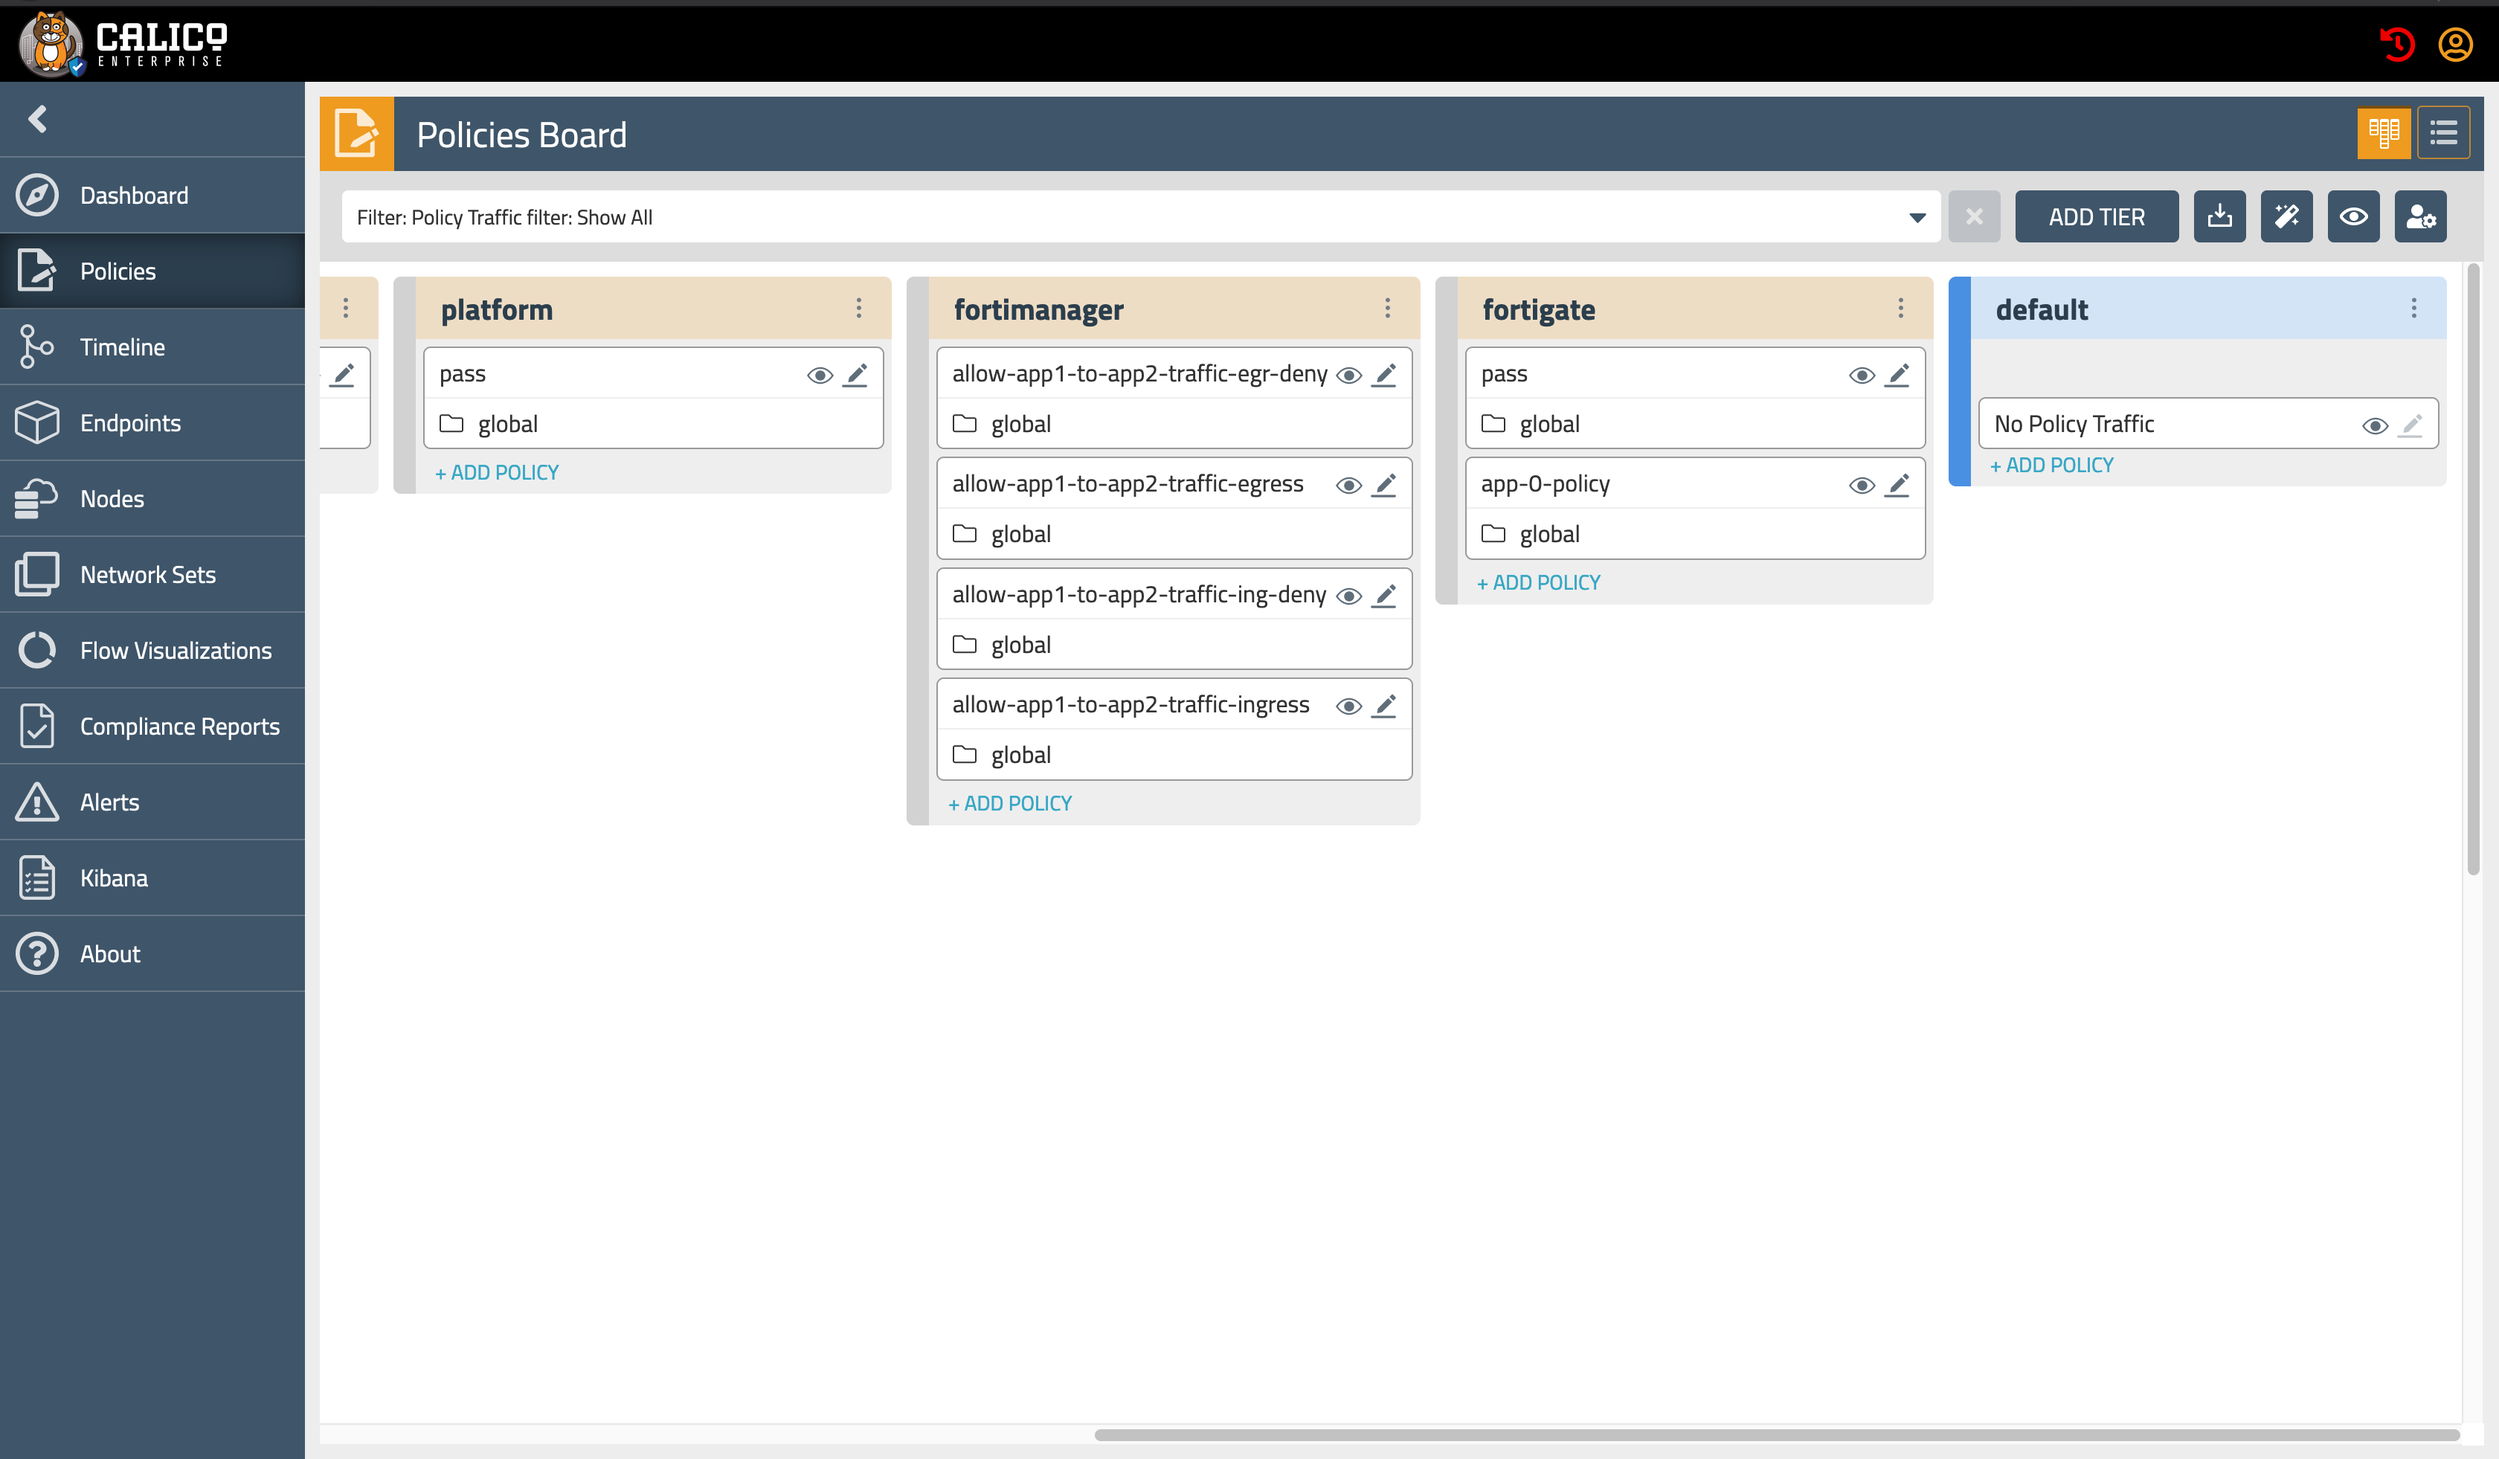
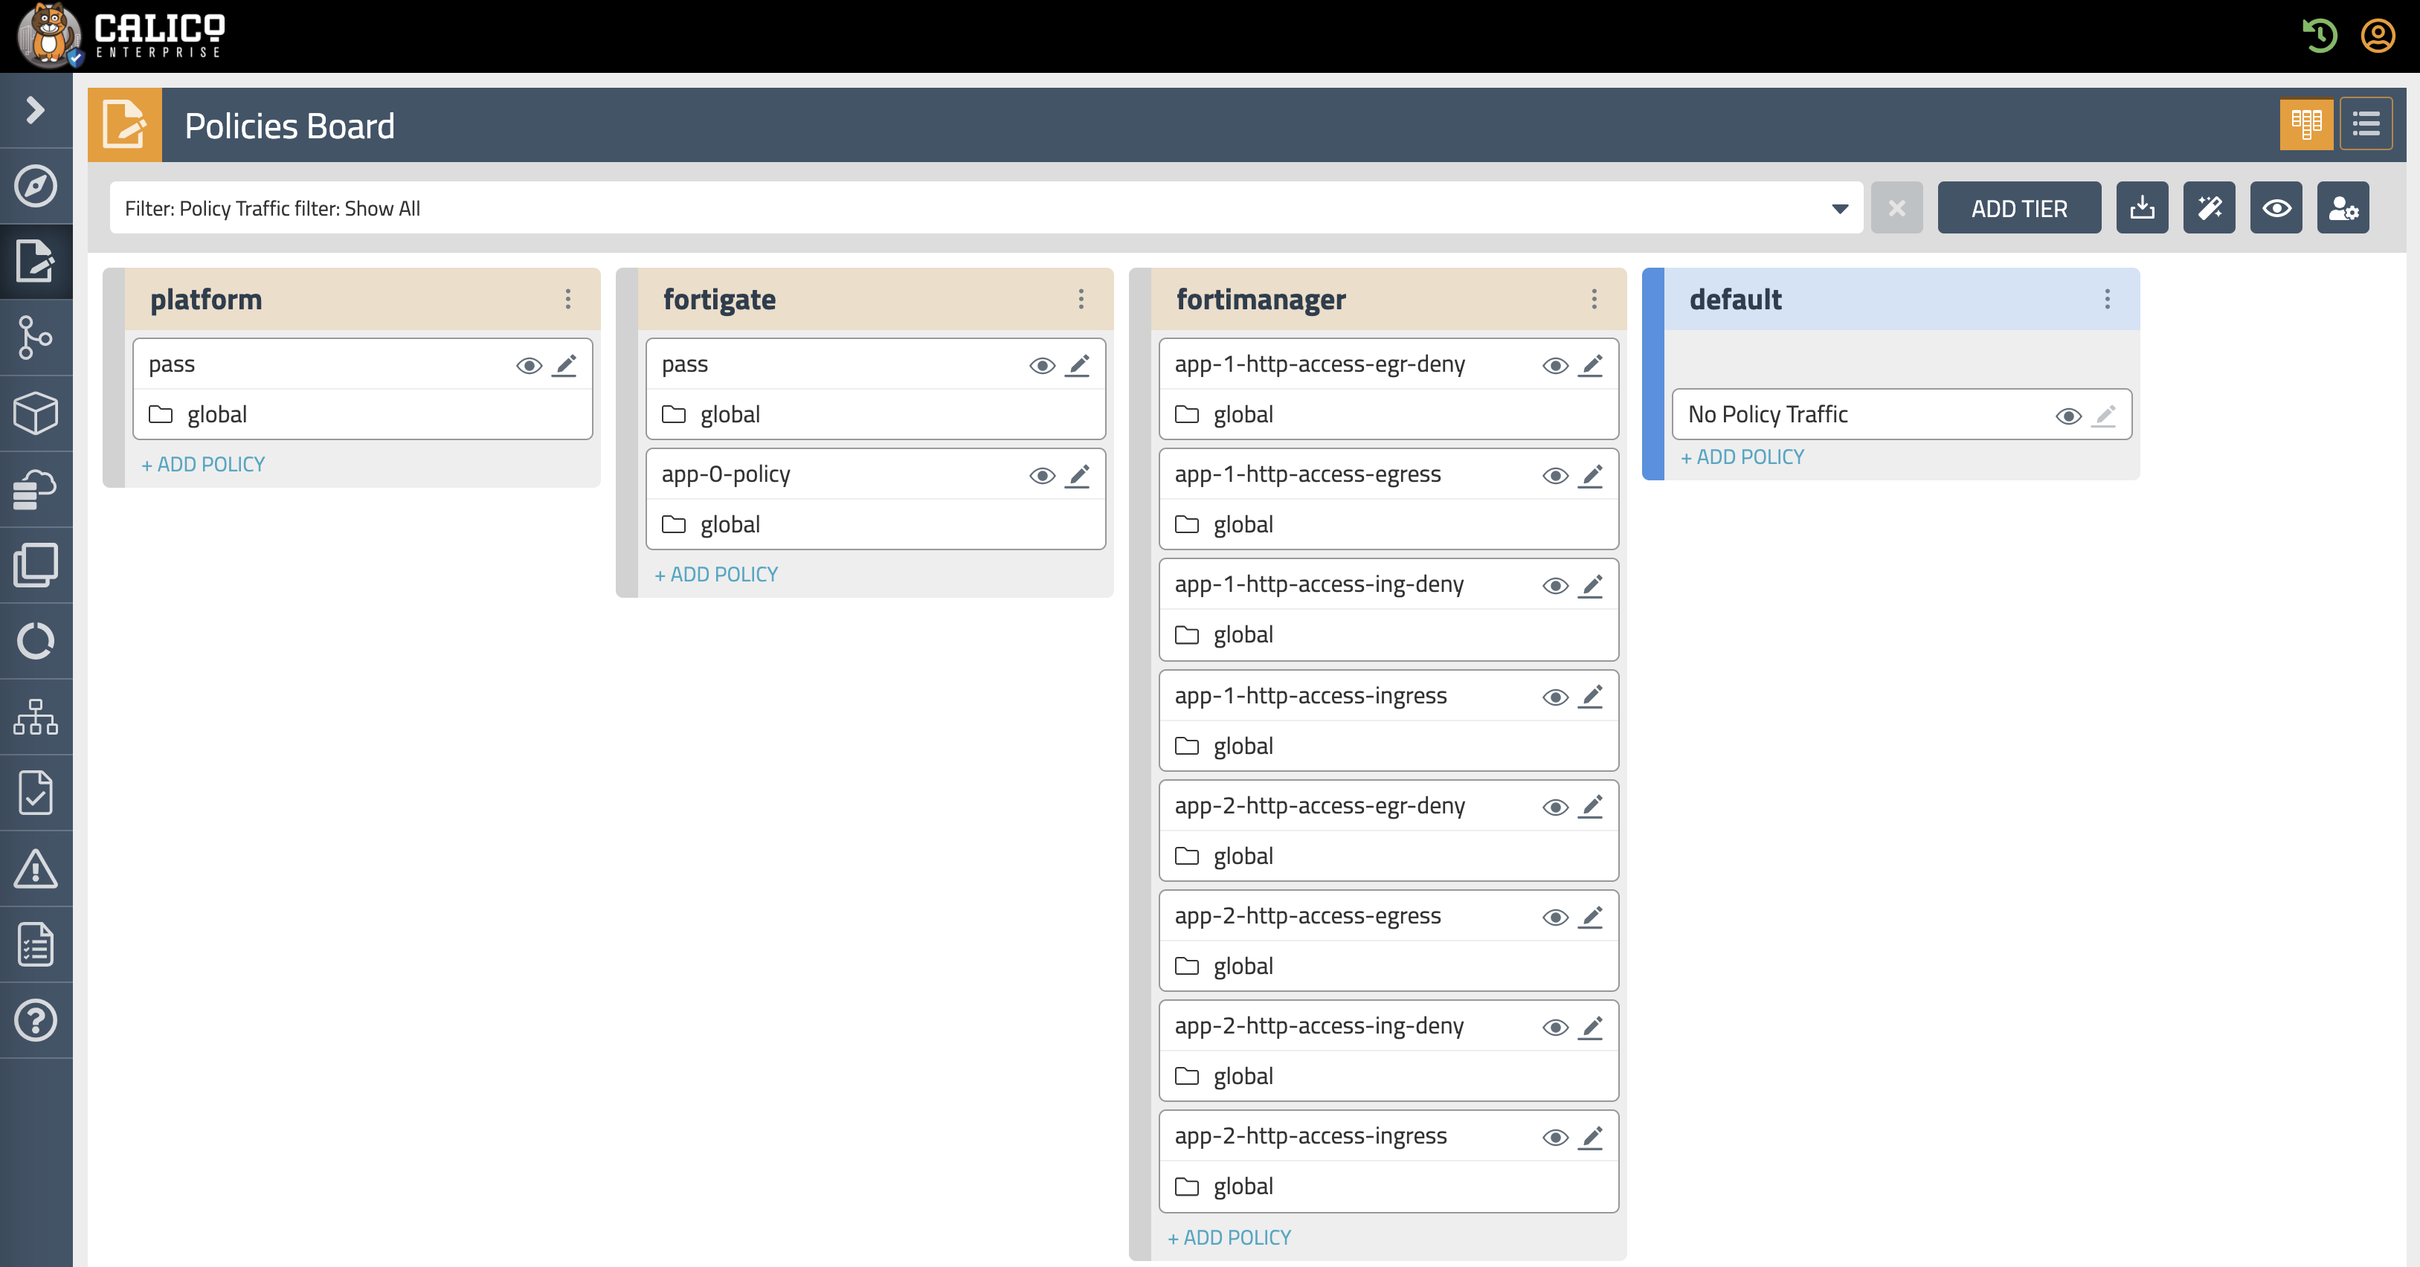
update modules 12 and 13

Changed region(s): [[0.0, 0.0, 1.0, 1.0], [0.6518, 0.5288, 0.6829, 0.5599]]

diff --git a/modules/deploy-app-1.md b/modules/deploy-app-1.md
@@ -109,39 +109,81 @@
         app: app-2
     ```
 
-    This deployment creates two sample `nginx` deployments in `ns1` called `app-1` and `app-2`, and a `centos` utility pod. Our goal here is to configure FortiManager Policy Packages to secure these two applications using Calico Policies. You will notice that we have a label `tigera.io/address-group` that identifies which FortiManager Address Group this application belongs to. In our case the values are `app-1-address-group` and `app-2-address-group`. Let's deploy the app:
+    This deployment creates two sample `nginx` deployments in `ns1` called `app-1` and `app-2`, and a `centos` utility pod. Our goal here is to configure FortiManager Policy Packages to secure these two `nginx` applications using Calico Policies. You will notice that we have a label `tigera.io/address-group` that identifies which FortiManager Address Group this applications belong to. In our case the values are `app-1-address-group`, `app-2-address-group` and `ns1-centos-address-group`. Let's deploy the app:
 
 2. You deploy them:
 
-    ```
+    ```bash
     $ kubectl apply -f app-1.yaml
     ```
 
     Verify that the  application is deployed:
 
-    ```
-    $ $ kubectl get pod -n ns1
+    ```bash
+    $ kubectl get pod -n ns1
     NAME                     READY   STATUS    RESTARTS   AGE
-    app-1-66db7b7fb9-4kp8h   1/1     Running   1          21h
-    app-1-66db7b7fb9-52rq5   1/1     Running   1          21h
-    app-2-755b9959bf-djw48   1/1     Running   1          21h
-    app-2-755b9959bf-gzj28   1/1     Running   1          21h
+    app-1-66db7b7fb9-4kp8h   1/1     Running   1          1h
+    app-1-66db7b7fb9-52rq5   1/1     Running   1          1h
+    app-2-755b9959bf-djw48   1/1     Running   1          1h
+    app-2-755b9959bf-gzj28   1/1     Running   1          1h
+    centos                   1/1     Running   1          1h
     ```
 
-3. In the FortiManager portal, navigate to **Policy & Objects > Object Configurations > Create New > Address Group**. We need to create two empty Address Groups: `app-1-address-group` and `app-2-address-group`. When you select Members, ensure you search for `none` and select that option.
+3. In the FortiManager portal, navigate to **Policy & Objects > Object Configurations > Create New > Address Group**. We need to create empty Address Groups: `app-1-address-group`, `app-2-address-group` and `ns1-centos-address-group`. When you select Members, ensure you search for `none` and select that option.
+
+    >Notice that Address Groups names you create in FortiManager should match the values provided for `tigera.io/address-group` label of the applications for which you want to create policies.
 
     ![app-1-address-group.png](../img/app-1-address-group.png)
 
-4. Repeat the process for `app-2-address-group`.
+4. Repeat the process for `app-2-address-group` and `ns1-centos-address-group`.
 
-5. Now you will create a policy under the **Policy Packages** tab to secure the two applications. Click on **Create New** and fill the values as the below image:
+5. Now you will create a policy under the **Policy Packages**  tab in **calico-ew** package to secure the two applications. Create a policy to allow the `centos` pod with label `tigera.io/address-group: ns1-centos-address-group` to connect over HTTP to `nginx` pods with label `tigera.io/address-group: app-1-address-group`. Click on **Create New** and fill the values as shown in the below image:
 
-    ![fortimanager-policy.png](../img/fortimanager-policy.png)
+    ![fortimanager-http-access-policy.png](../img/fortimanager-http-access-policy.png)
 
-6. Now you can validate that this policy was translated by Calico Enterprise into a Kubernetes/Calico Network Policy and was added to the `fortimanager` Tier in Calico Enterprise.
+    Repeat this step to allow the `centos` pod to connect over HTTP and ICMP to the `nginx` pods with label `tigera.io/address-group: app-2-address-group`.
+
+6. Now you can validate that this policy was translated by Calico Enterprise integration controller into a Calico Network Policy and was added to the `fortimanager` Tier in Calico Enterprise.
 
     ![calico-fortimanager-policy.png](../img/calico-fortimanager-policy.png)
 
-    You should see for policies created to secure both applications in both the Ingress and Egress direction.
+    You should see for policies created to secure both applications in both the Ingress and Egress direction. Explore the policy rules configured by the integration controller.
 
-7. Congratulations! You have successfully completed all the labs.
+7. Test connection between the pods.
+
+    Use IP of one of the `nginx` pods to test the connection between the `centos` pod and `nginx` applications.
+
+    ```bash
+    # get pod IP
+    POD_IP=$(kubectl -n ns1 get po -l app=app-1 -ojsonpath='{.items[0].status.podIP}')
+    # text HTTP connection
+    kubectl -n ns1 exec -t centos -- curl $POD_IP
+    ```
+
+    However, the connection between the `nginx` pods should not be blocked as our policies do not allow it.
+
+    ```bash
+    kubectl -n ns1 exec -t $(kubectl -n ns1 get po -l app=app-2 -ojsonpath='{.items[0].metadata.name}') -- curl $POD_IP
+    ```
+
+8. Test connection using application Kubernetes service.
+
+    a. Use Kubernetes service of one of the `nginx` applications to test the connection.
+
+    ```bash
+    kubectl -n ns1 exec -t centos -- curl app-1-svc
+    ```
+
+    This connection would not succeed if you don't have a policy allowing applications to access Kubernetes DNS component.
+
+    b. Deploy Kubernetes DNS policy.
+
+    ```bash
+    kubectl apply -f demo/kube-dns.policy.yaml
+    ```
+
+    Test the connection again. This time it should succeed.
+
+    >It is important to allow your applications to communicate with Kubernetes DNS service when the applications require connection over Kubernetes service.
+
+9. Congratulations! You have successfully completed all the labs.

diff --git a/modules/integrate-calico-with-fortimanager.md b/modules/integrate-calico-with-fortimanager.md
@@ -90,7 +90,16 @@ The basic workflow is:
     curl -O https://docs.tigera.io/manifests/fortimanager.yaml
     ```
 
-    b. Review and apply the manifest
+    b. Review the manifest and adjust if needed
+
+    >If you use FortiManager integration for East-West policy management together with Fortinet integration for North-South policy management, some of the resource names may overlap and could result in misconfiguraiton. Make sure the resource names for East-West integraiton differ from those for North-South configuration.
+
+    ```
+    # if East-South integration resources have the same names as North-South integration, rename them to avoid any configuration collisions
+    sed -e '/\s*namespace:\stigera-firewall-controller/b; s/tigera-firewall-controller/tigera-firewall-controller-ew/g' fortimanager.yaml
+    ```
+
+    c. Apply the manifest
 
     ```
     kubectl apply -f fortimanager.yaml
@@ -100,9 +109,9 @@ The basic workflow is:
 
     ```
     $ kubectl get pod  -n tigera-firewall-controller
-    NAME                                                              READY   STATUS    RESTARTS   AGE
-    tigera-firewall-controller-58847b76b-m6b5m                        1/1     Running   0          14m
-    tigera-firewall-controller-fortimanager-policies-ccc4f6f879j8f7   1/1     Running   0          32m
+    NAME                                                                 READY   STATUS    RESTARTS   AGE
+    tigera-firewall-controller-58847b76b-m6b5m                           1/1     Running   0          14m
+    tigera-firewall-controller-ew-fortimanager-policies-ccc4f6f879j8f7   1/1     Running   0          1m
     ```
 
 [Next -> Module 13](../modules/deploy-app-1.md)
